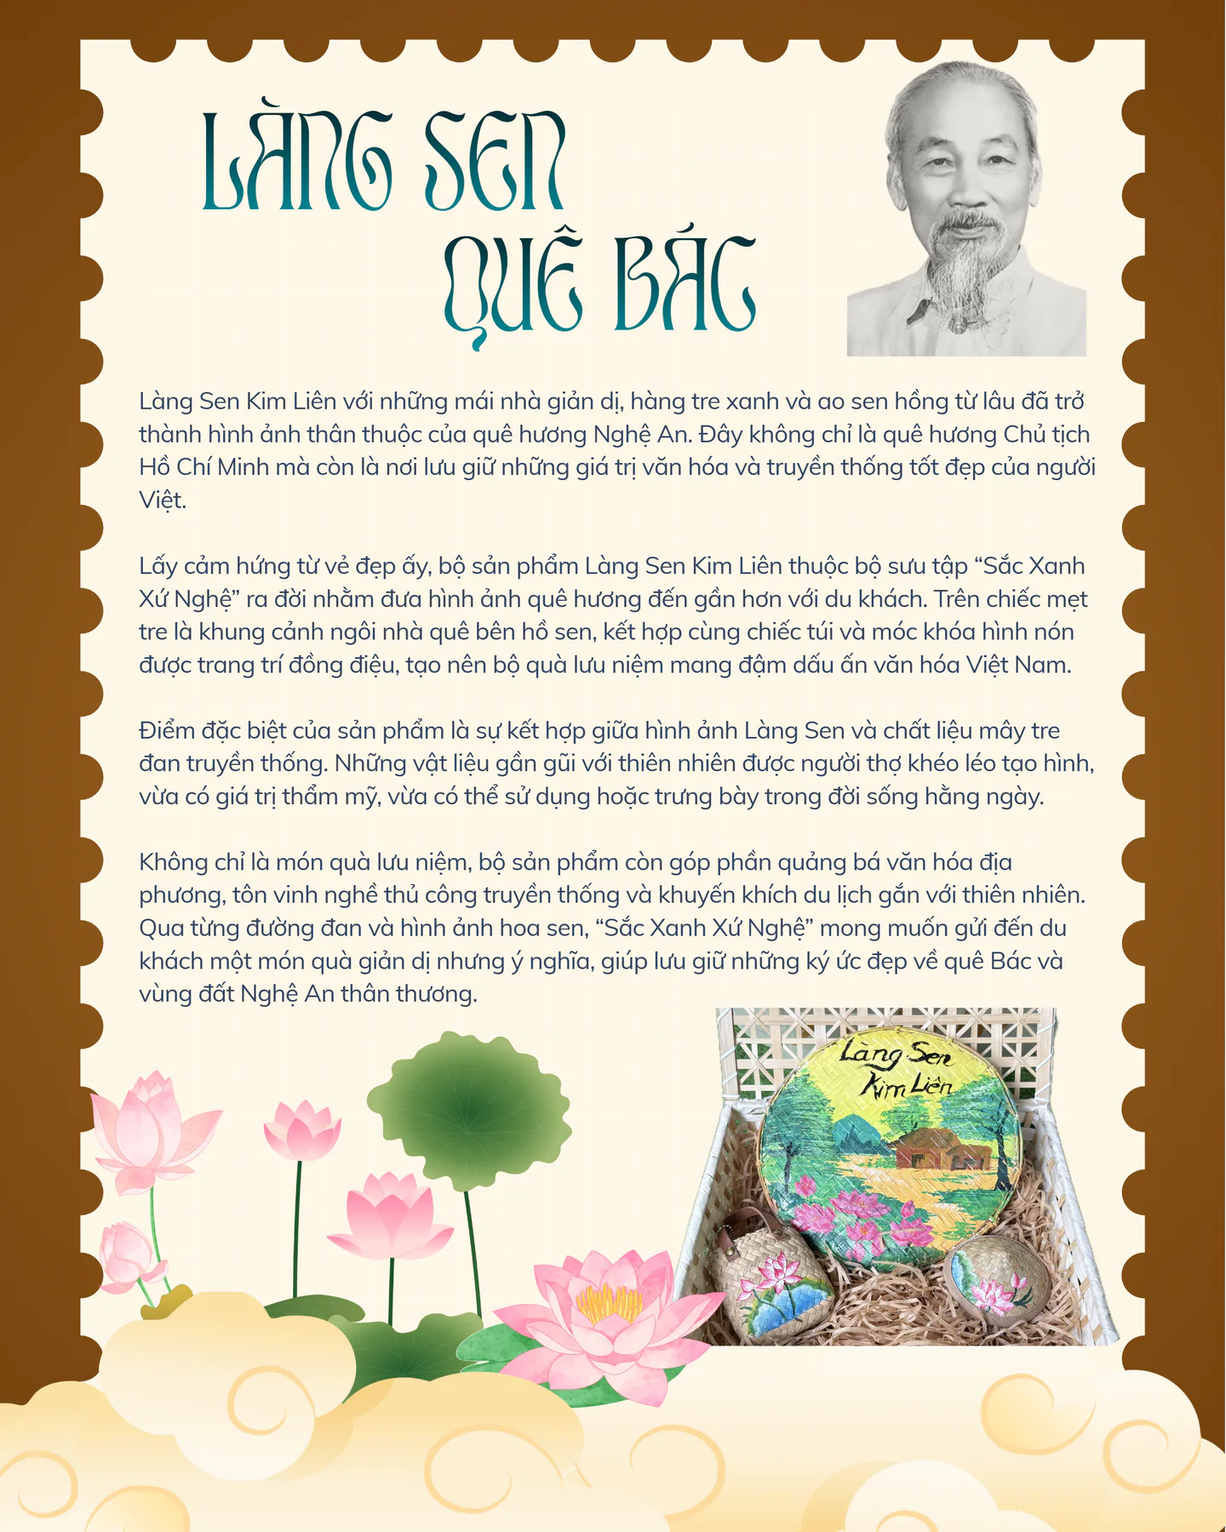
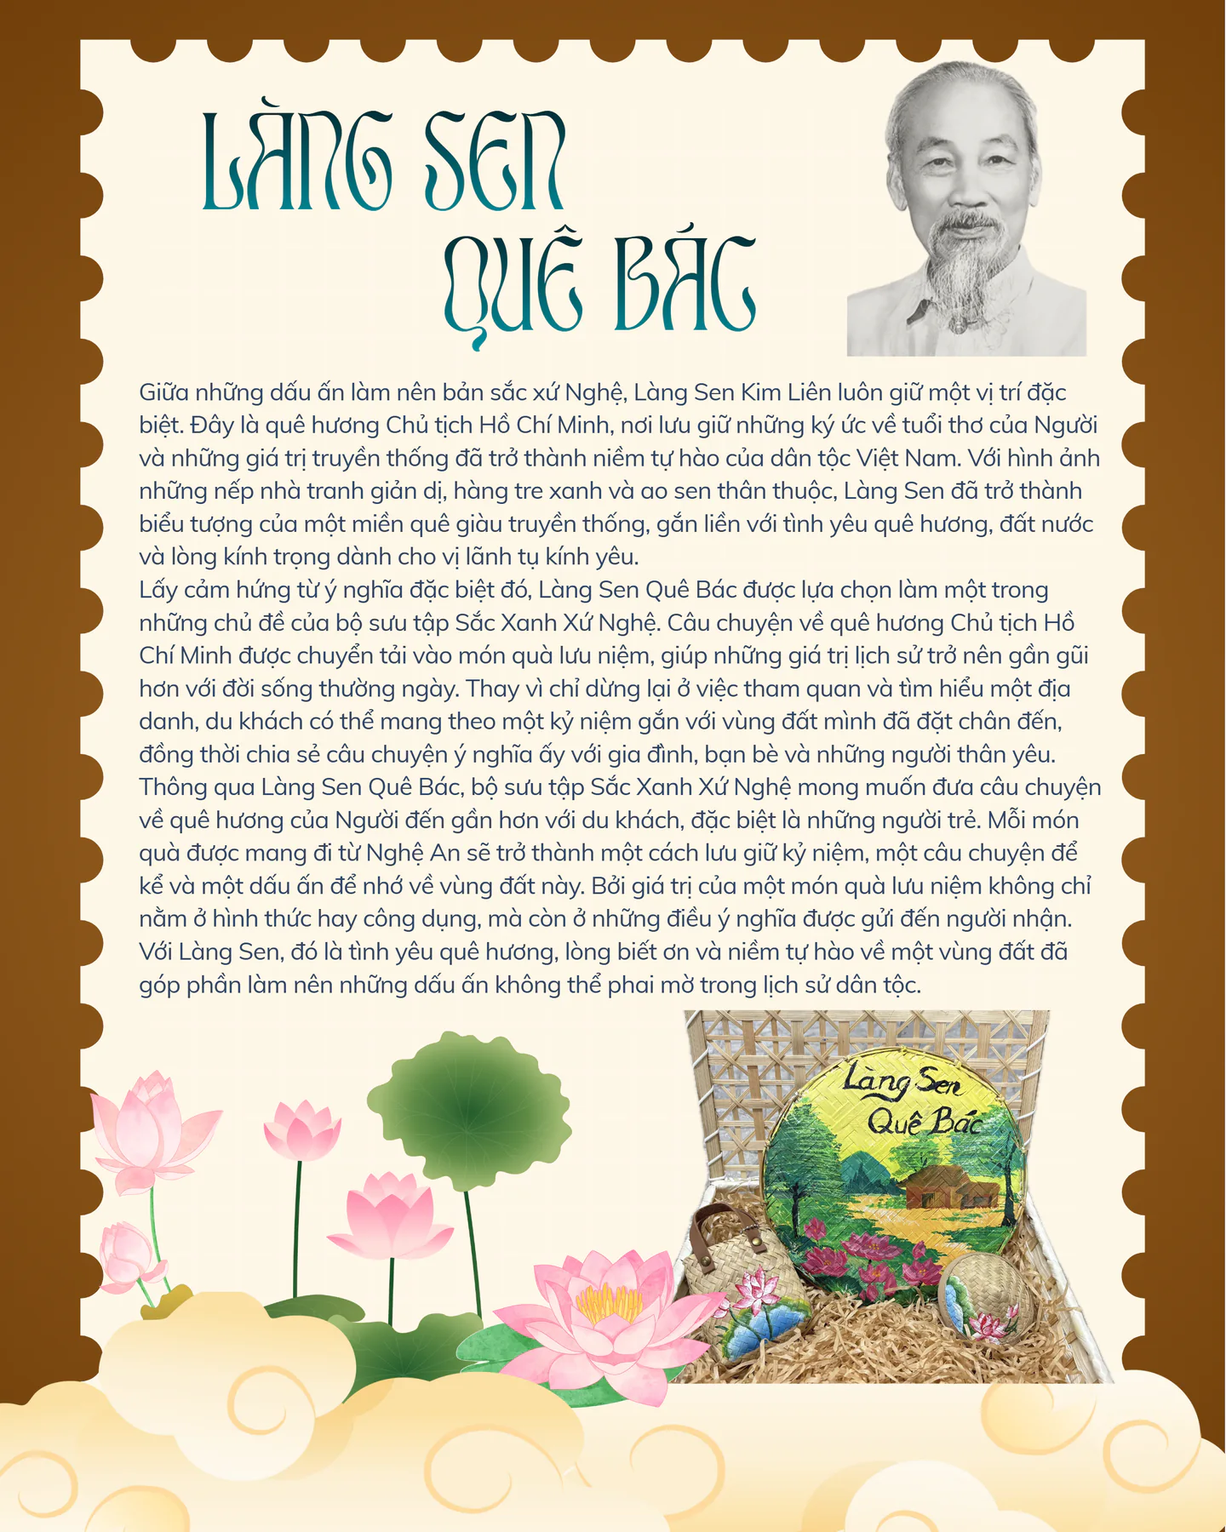
final_v3

Changed region(s): [[0.0938, 0.2489, 0.9062, 0.9022]]

diff --git a/index.html b/index.html
@@ -30,45 +30,32 @@
         <div class="book-pages">
     <section class="chapter" id="gioi-thieu" aria-labelledby="gioi-thieu-title">
       <h1 class="sr-only" id="gioi-thieu-title">Sắc Xanh Xứ Nghệ</h1>
-      <img class="chapter-image" src="assets/pages/gioi-thieu.webp" width="1440" height="1800" loading="lazy" decoding="async" fetchpriority="high" alt="Giới thiệu bộ sưu tập mây tre đan Sắc Xanh Xứ Nghệ.">
-      <div class="page-transcript sr-only"><p>Từ đôi bàn tay khéo léo của người nghệ nhân xứ Nghệ, những sản phẩm mây tre đan mang đậm hồn quê Việt.</p></div>
+      <img class="chapter-image" src="assets/pages/gioi-thieu.webp?v=8f2fc9e49fa2" width="1440" height="1800" loading="lazy" decoding="async" fetchpriority="high" alt="Giới thiệu bộ sưu tập mây tre đan Sắc Xanh Xứ Nghệ.">
+      <div class="page-transcript sr-only"><p>Từ đôi bàn tay khéo léo của người nghệ nhân xứ Nghệ, - những sản phẩm máy trẻ dan mang đậm hồn quê Việt.</p></div>
     </section>
 
     <section class="chapter" id="lang-sen" aria-labelledby="lang-sen-title">
       <h2 class="sr-only" id="lang-sen-title">Làng Sen quê Bác</h2>
-      <img class="chapter-image" src="assets/pages/lang-sen.webp" width="1440" height="1800" loading="lazy" decoding="async" alt="Bộ quà Làng Sen Kim Liên, chân dung Bác Hồ và hoa sen.">
-      <div class="page-transcript sr-only"><p>Làng Sen Kim Liên với những mái nhà giản dị, hàng tre xanh và ao sen hồng từ lâu đã trở thành hình ảnh thân thuộc của quê hương Nghệ An. Đây không chỉ là quê hương Chủ tịch Hồ Chí Minh mà còn là nơi lưu giữ những giá trị văn hóa và truyền thống tốt đẹp của người Việt.</p>
-          <p>Lấy cảm hứng từ vẻ đẹp ấy, bộ sản phẩm Làng Sen Kim Liên thuộc bộ sưu tập “Sắc Xanh Xứ Nghệ” ra đời nhằm đưa hình ảnh quê hương đến gần hơn với du khách. Trên chiếc mẹt tre là khung cảnh ngôi nhà quê bên hồ sen, kết hợp cùng chiếc túi và móc khóa hình nón được trang trí đồng điệu, tạo nên bộ quà lưu niệm mang đậm dấu ấn văn hóa Việt Nam.</p>
-          <p>Điểm đặc biệt của sản phẩm là sự kết hợp giữa hình ảnh Làng Sen và chất liệu mây tre đan truyền thống. Những vật liệu gần gũi với thiên nhiên được người thợ khéo léo tạo hình, vừa có giá trị thẩm mỹ, vừa có thể sử dụng hoặc trưng bày trong đời sống hằng ngày.</p>
-          <p>Không chỉ là món quà lưu niệm, bộ sản phẩm còn góp phần quảng bá văn hóa địa phương, tôn vinh nghề thủ công truyền thống và khuyến khích du lịch gắn với thiên nhiên. Qua từng đường đan và hình ảnh hoa sen, “Sắc Xanh Xứ Nghệ” mong muốn gửi đến du khách một món quà giản dị nhưng ý nghĩa, giúp lưu giữ những ký ức đẹp về quê Bác và vùng đất Nghệ An thân thương.</p></div>
+      <img class="chapter-image" src="assets/pages/lang-sen.webp?v=18ce8269ab4f" width="1440" height="1800" loading="lazy" decoding="async" alt="Bộ quà Làng Sen Kim Liên, chân dung Bác Hồ và hoa sen.">
+      <div class="page-transcript sr-only"><p>Giữa những dấu ấn làm nên bản sắc xứ Nghệ, Làng Sen Kim Liên luôn giữ một vị trí đặc biệt. Đây là quê hương Chủ tịch Hồ Chí Minh, nơi lưu giữ những ký ức về tuổi thơ của Người và những giá trị truyền thống đã trở thành niềm tự hào của dân tộc Việt Nam. Với hình ảnh những nếp nhà tranh giản dị, hàng tre xanh và ao sen thân thuộc, Làng Sen đã trở thành biểu tượng của một miền quê giàu truyền thống, gắn liền với tình yêu quê hương, đất nước và lòng kính trọng dành cho vị lãnh tụ kính yêu. Lấy cảm hứng từ ý nghĩa đặc biệt đó, Làng Sen Quê Bác được lựa chọn làm một trong những chủ đề của bộ sưu tập Sắc Xanh Xứ Nghệ. Câu chuyện về quê hương Chủ tịch Hồ Chí Minh được chuyển tải vào món quà lưu niệm, giúp những giá trị lịch sử trở nên gần gũi hơn với đời sống thường ngày. Thay vì chỉ dừng lại ở việc tham quan và tìm hiểu một địa danh, du khách có thể mang theo một kỷ niệm gắn với vùng đất mình đã đặt chân đến, đồng thời chia sẻ câu chuyện ý nghĩa ấy với gia đình, bạn bè và những người thân yêu.Thông qua Làng Sen Quê Bác, bộ sưu tập Sắc Xanh Xứ Nghệ mong muốn đưa câu chuyện về quê hương của Người đến gần hơn với du khách, đặc biệt là những người trẻ. Mỗi món quà được mang đi từ Nghệ An sẽ trở thành một cách lưu giữ kỷ niệm, một câu chuyện để kể và một dấu ấn để nhớ về vùng đất này. Bởi giá trị của một món quà lưu niệm không chỉ nằm ở hình thức hay công dụng, mà còn ở những điều ý nghĩa được gửi đến người nhận. Với Làng Sen, đó là tình yêu quê hương, lòng biết ơn và niềm tự hào về một vùng đất đã góp phần làm nên những dấu ấn không thể phai mờ trong lịch sử dân tộc.</p></div>
     </section>
 
     <section class="chapter" id="cua-lo" aria-labelledby="cua-lo-title">
       <h2 class="sr-only" id="cua-lo-title">Cửa Lò bến nhớ</h2>
-      <img class="chapter-image" src="assets/pages/cua-lo.webp" width="1440" height="1800" loading="lazy" decoding="async" alt="Bộ quà Biển Cửa Lò trên nền nước biển và giấy màu kem.">
-      <div class="page-transcript sr-only"><p>Biển Cửa Lò với bãi cát dài, làn nước xanh và những con thuyền vươn khơi là hình ảnh đặc trưng của quê hương Nghệ An. Không chỉ là điểm đến nghỉ dưỡng, nơi đây còn gắn liền với cuộc sống bình dị của người dân miền biển.</p>
-          <p>Lấy cảm hứng từ vẻ đẹp ấy, bộ sản phẩm Biển Cửa Lò thuộc bộ sưu tập “Sắc Xanh Xứ Nghệ” tái hiện khung cảnh biển xanh, bờ cát vàng, hàng dừa và những con thuyền nhỏ. Hình ảnh được thể hiện trên mẹt tre, túi mây tre đan và móc khóa hình nón, tạo nên bộ quà lưu niệm mang đậm dấu ấn vùng biển.</p>
-          <p>Sản phẩm không chỉ gợi nhớ những kỷ niệm bên biển mà còn gửi gắm thông điệp bảo vệ môi trường, giữ gìn cảnh quan và hạn chế rác thải nhựa. Với chất liệu thủ công gần gũi thiên nhiên, bộ quà tặng mong muốn đưa vẻ đẹp Cửa Lò đến gần hơn với du khách, lưu giữ những ký ức đáng nhớ về biển quê hương.</p></div>
+      <img class="chapter-image" src="assets/pages/cua-lo.webp?v=8f9869d5c762" width="1440" height="1800" loading="lazy" decoding="async" alt="Bộ quà Biển Cửa Lò trên nền nước biển và giấy màu kem.">
+      <div class="page-transcript sr-only"><p>Biển Cửa Lò không chỉ được biết đến bởi bãi cát dài, làn nước trong xanh và vẻ đẹp khoáng đạt của thiên nhiên mà còn bởi nhịp sống bình dị của những con người gắn bó với biển. Qua những chuyến thuyền vươn khơi, hoạt động đánh bắt hải sản và nhịp sinh hoạt của cư dân ven biển, Cửa Lò mang trong mình nét đặc trưng của một vùng biển giàu sức sống. Trải qua thời gian, Cửa Lò đã trở thành một phần trong ký ức của nhiều người, từ những cư dân sinh sống lâu đời bên biển đến những du khách từng có . dịp đặt chân đến nơi đây. Mỗi người có thể lưu giữ một ấn tượng khác nhau về vùng biển này, nhưng tất cả đều góp phần tạo nên hình ảnh một Cửa Lò vừa sôi động, vừa bình dị và gần gũi. Chính những nét đẹp ấy đã trở thành nguồn cảm hứng để hình thành chủ đề Cửa Lò Bến Nhớ trong bộ sưu tập quà lưu niệm Sắc Xanh Xứ Nghệ. Tên gọi Cửa Lò Bến Nhớ mang ý nghĩa về sự gắn bó và lưu luyến đối với một miền biển đã từng ghé qua. Trong bộ sưu tập Sắc Xanh Xứ Nghệ, chủ đề này không chỉ góp thêm sắc màu của biển vào bức tranh quê hương Nghệ An mà còn lưu giữ một nét văn hóa đặc trưng của miền đất ven biển.</p></div>
     </section>
 
     <section class="chapter" id="song-lam" aria-labelledby="song-lam-title">
       <h2 class="sr-only" id="song-lam-title">Dấu ấn Sông Lam</h2>
-      <img class="chapter-image" src="assets/pages/song-lam.webp" width="1440" height="1800" loading="lazy" decoding="async" alt="Bộ quà Sông Lam cùng núi, thuyền và hoa văn trống đồng.">
-      <div class="page-transcript sr-only"><p>Sông Lam từ lâu đã gắn bó với đời sống người dân xứ Nghệ, bồi đắp phù sa cho ruộng đồng và lưu giữ ký ức của nhiều thế hệ. Dòng sông không chỉ là cảnh quan quen thuộc mà còn tượng trưng cho tình yêu quê hương và những kỷ niệm bình dị.</p>
-          <p>Từ cảm hứng ấy, bộ sản phẩm Sông Lam Nghệ An thuộc bộ sưu tập “Sắc Xanh Xứ Nghệ” tái hiện dòng sông giữa núi đồi, ánh hoàng hôn và những con thuyền nhỏ. Hình ảnh được thể hiện trên mẹt tre, túi mây tre đan và móc khóa hình nón, tạo nên bộ quà lưu niệm mang nét đẹp yên bình của quê hương.</p>
-          <p>Chất liệu tre và mây được sử dụng trong bộ sản phẩm có nguồn gốc từ làng nghề mây tre đan xã Nghi Thái. Dưới bàn tay người thợ, những nguyên liệu tự nhiên được xử lý, uốn, đan và hoàn thiện thành các sản phẩm mang tính ứng dụng cao. Nghề đan lát tại Nghi Thái không chỉ tạo ra những vật dụng gần gũi mà còn lưu giữ kỹ năng thủ công, nếp sống và giá trị văn hóa của làng quê Nghệ An.</p>
-          <p>So với các sản phẩm lưu niệm làm từ nhựa hoặc vật liệu khó phân hủy, mây tre đan có độ bền sử dụng tốt, có thể dùng để đựng đồ, trang trí hoặc làm vật dụng hằng ngày. Qua đó, món quà không chỉ mang giá trị kỷ niệm mà còn khuyến khích việc lựa chọn sản phẩm tự nhiên, sử dụng lâu dài và góp phần hỗ trợ nghề thủ công địa phương.</p>
-          <p>Sản phẩm kết hợp chất liệu thủ công truyền thống của Nghi Thái với hình ảnh Sông Lam, giúp du khách lưu giữ những kỷ niệm về Nghệ An theo cách gần gũi và ý nghĩa hơn. Qua đó, “Sắc Xanh Xứ Nghệ” mong muốn lan tỏa tình yêu quê hương, sự trân trọng văn hóa và ý thức gìn giữ cảnh quan thiên nhiên.</p></div>
+      <img class="chapter-image" src="assets/pages/song-lam.webp?v=38f913f8272a" width="1440" height="1800" loading="lazy" decoding="async" alt="Bộ quà Sông Lam cùng núi, thuyền và hoa văn trống đồng.">
+      <div class="page-transcript sr-only"><p>Trên dải đất Nghệ An, sông Lam không chỉ là một dòng sông gắn liền với cảnh quan thiên nhiên mà còn là biểu tượng thân thuộc trong đời sống và tâm thức của người dân xứ Nghệ. Dòng sông bắt nguồn từ núi rừng, chảy qua những miền quê, bồi đắp phù sa cho ruộng đồng và nuôi dưỡng cuộc sống của bao thế hệ. Qua năm tháng, sông Lam đã chứng kiến những đổi thay của quê hương, gắn bó với hoạt động lao động, sinh hoạt và những kỷ niệm bình dị của người dân hai bên bờ. Bởi vậy, đối với nhiều người, sông Lam không đơn thuần là một địa danh mà còn là hình ảnh đại diện cho quê hương, nơi lưu giữ những tình cảm thân thương và ký ức khó phai.Điều làm nên ý nghĩa đặc biệt của sông Lam chính là sự gắn bó bền chặt giữa dòng sông với con người và văn hóa xứ Nghệ. Dòng nước ấy đã đi vào lời ca, câu chuyện dân gian và đời sống thường ngày, trở thành một phần trong ký ức của những người sinh ra và lớn lên trên mảnh đất này. Dù cuộc sống có nhiều đổi thay, sông Lam vẫn giữ vị trí riêng trong lòng người dân Nghệ An, gợi nhắc về quê nhà, về những năm tháng gắn bó và tình cảm dành cho nơi mình thuộc về. Chính sự gần gũi ấy đã khiến dòng sông trở thành một trong những biểu tượng tiêu biểu khi nhắc đến bản sắc xứ Nghệ.Từ tình cảm và ý nghĩa đó, Dấu ấn sông Lam ra đời như một món quà lưu niệm mang câu chuyện về dòng sông quê hương đến gần hơn với du khách. Không chỉ lưu lại kỷ niệm về một chuyến đi, món quà còn giúp người nhận hiểu thêm về một biểu tượng văn hóa của Nghệ An và tình cảm sâu nặng của người dân dành cho quê hương.</p></div>
     </section>
 
     <section class="chapter" id="vi-giam" aria-labelledby="vi-giam-title">
       <h2 class="sr-only" id="vi-giam-title">Ví Dặm tình ca</h2>
-      <img class="chapter-image" src="assets/pages/vi-giam.webp" width="1440" height="1800" loading="lazy" decoding="async" alt="Bộ quà Ví Dặm, nốt nhạc và hoa trên nền giấy xanh.">
-      <div class="page-transcript sr-only"><p>Dân ca ví, giặm từ lâu đã trở thành một phần không thể thiếu trong đời sống văn hóa của người dân Nghệ An và Hà Tĩnh. Những câu hát mộc mạc chứa đựng tình yêu quê hương, tình cảm gia đình và tâm hồn chân thành của con người xứ Nghệ. Năm 2014, dân ca ví, giặm Nghệ Tĩnh được UNESCO ghi danh là Di sản văn hóa phi vật thể đại diện của nhân loại.</p>
-          <p>Lấy cảm hứng từ di sản ấy, bộ sản phẩm Ví, giặm Nghệ Tĩnh thuộc bộ sưu tập “Sắc Xanh Xứ Nghệ” khắc họa hình ảnh đôi trai gái trong trang phục truyền thống, kết hợp cùng nốt nhạc và khung cảnh quê hương trên mẹt tre, túi mây tre đan và móc khóa hình nón.</p>
-          <p>Các sản phẩm được làm từ tre và mây tự nhiên có nguồn gốc từ làng nghề mây tre đan xã Nghi Thái. Tại làng nghề, người thợ sử dụng những kỹ thuật truyền thống để chẻ, vót, phơi, uốn và đan nguyên liệu thành các sản phẩm thủ công. Mỗi sản phẩm là kết quả của sự khéo léo, kiên trì và kinh nghiệm được gìn giữ qua thời gian.</p>
-          <p>Việc kết hợp hình ảnh dân ca ví, giặm với sản phẩm mây tre đan Nghi Thái tạo nên sự gặp gỡ giữa hai giá trị văn hóa của Nghệ An: di sản nghệ thuật dân gian và nghề thủ công truyền thống. Nếu lời ca được lưu truyền qua giọng hát, thì kỹ nghệ đan lát được tiếp nối qua đôi bàn tay người thợ.</p>
-          <p>Sản phẩm là sự kết hợp giữa giá trị văn hóa và nghề thủ công truyền thống, góp phần đưa dân ca ví, giặm đến gần hơn với du khách, đặc biệt là thế hệ trẻ. Qua từng đường đan và hình ảnh, “Sắc Xanh Xứ Nghệ” mong muốn lưu giữ lời ca quê hương, khơi gợi niềm tự hào văn hóa và lan tỏa những giá trị di sản qua những món quà giản dị, thân thiện với môi trường.</p></div>
+      <img class="chapter-image" src="assets/pages/vi-giam.webp?v=b8a3b7caf146" width="1440" height="1800" loading="lazy" decoding="async" alt="Bộ quà Ví Dặm, nốt nhạc và hoa trên nền giấy xanh.">
+      <div class="page-transcript sr-only"><p>Trong đời sống văn hóa của người dân Nghệ An và Hà Tĩnh, dân ca Ví, Dặm từ lâu đã trở thành một nét đẹp không thể tách rời. Những câu hát mộc mạc được cất lên trong lao động, sinh hoạt và những dịp gặp gỡ đã thể hiện tâm hồn chân thành, tình cảm sâu nặng cùng cách ứng xử giàu nghĩa tình của con người xứ Nghệ. Qua lời ca, người dân gửi gắm tình yêu quê hương, tình cảm gia đình, tình yêu đôi lứa và những tâm tư trong cuộc sống thường ngày. Không cầu kỳ về ngôn từ hay giai điệu, Ví, Dặm chinh phục người nghe bằng sự gần gũi, sâu lắng và nét riêng khó trộn lẫn. Lấy cảm hứng từ di sản văn hóa đặc biệt ấy, Ví, Dặm Tình Ca được hình thành như một món quà lưu niệm mang theo âm hưởng và tình cảm của quê hương Nghệ An. Nếu lời ca được lưu truyền qua giọng hát thì câu chuyện về Ví, Dặm có thể tiếp tục đến với nhiều người qua những món quà gần gũi trong cuộc sống. Đây cũng là cách đưa một di sản văn hóa đến gần hơn với du khách, đặc biệt là thế hệ trẻ, để những người chưa có dịp tìm hiểu có thể biết đến và thêm yêu nét đẹp nghệ thuật dân gian của quê hương.Ví, Dặm Tình Ca mang thông điệp về sự trân trọng và tiếp nối những giá trị văn hóa truyền thống. Mỗi món quà không chỉ lưu giữ kỷ niệm về vùng đất Nghệ An mà còn góp phần kể tiếp câu chuyện về những làn điệu dân ca đã nuôi dưỡng tâm hồn bao thế hệ người dân xứ Nghệ. Để dù ở bất cứ nơi đâu, tiếng hát quê hương vẫn luôn được nhớ đến, gìn giữ và ngânvang trong đời sống hôm nay</p></div>
     </section>
 
     <section class="chapter" id="thanh-chuong" aria-labelledby="thanh-chuong-title">

diff --git a/README.md b/README.md
@@ -6,6 +6,8 @@ Website dạng sách/menu gồm 6 ảnh nguyên trang từ [thiết kế Canva](
 
 Ảnh được lấy trực tiếp từ bản render của Canva ở độ phân giải cao, lưu thành WebP 1440 × 1800 px trong `assets/pages`. Website không dựng lại chữ, ảnh hoặc các thành phần trang trí. Các lỗi chữ, vị trí hay phần cắt ảnh có sẵn trong Canva cũng được giữ nguyên. Muốn thay nội dung, chỉnh Canva rồi thay ảnh trang tương ứng.
 
+Đường dẫn 5 ảnh đầu có mã phiên bản theo nội dung để trình duyệt tải ảnh mới sau mỗi lần đồng bộ Canva.
+
 Mỗi trang giữ nguyên tỷ lệ 4:5. Khung vừa màn hình hiển thị trọn trang, không kéo dài hay cắt thiết kế. Màn hình khác tỷ lệ vẫn có khoảng trống quanh trang; có thể dùng thu phóng để đọc chi tiết.
 
 - Chuyển cảnh bằng mép giấy cong hé khoảng 1/3–2/3 trang.
@@ -23,7 +25,7 @@ Các QR cũ vẫn hoạt động: #gioi-thieu, #lang-sen, #bo-suu-tap, #cua-lo, 
 
 ## Dung lượng
 
-Bộ web dùng 6 ảnh WebP và 2 font cho thanh điều khiển, tổng khoảng 2,85 MB tài nguyên. Trang Đồi chè Thanh Chương thêm khoảng 517 KB. Chỉ tải trang đang mở, chuẩn bị thêm một trang kế tiếp khi trình duyệt rảnh; không tải trước khi bật tiết kiệm dữ liệu hoặc dùng mạng 2G.
+Bộ web dùng 6 ảnh WebP và 2 font cho thanh điều khiển, tổng khoảng 2,94 MB tài nguyên. Trang Đồi chè Thanh Chương thêm khoảng 517 KB. Chỉ tải trang đang mở, chuẩn bị thêm một trang kế tiếp khi trình duyệt rảnh; không tải trước khi bật tiết kiệm dữ liệu hoặc dùng mạng 2G.
 
 Phần HTML/CSS dựng lại thiết kế và bộ tài nguyên rời cũ được lưu trong .qa/before-canva-images/, nằm trong .gitignore. Ảnh PNG gốc chụp từ Canva lưu trong .canva-reference/, cũng được bỏ qua khi đưa lên Git.
 
